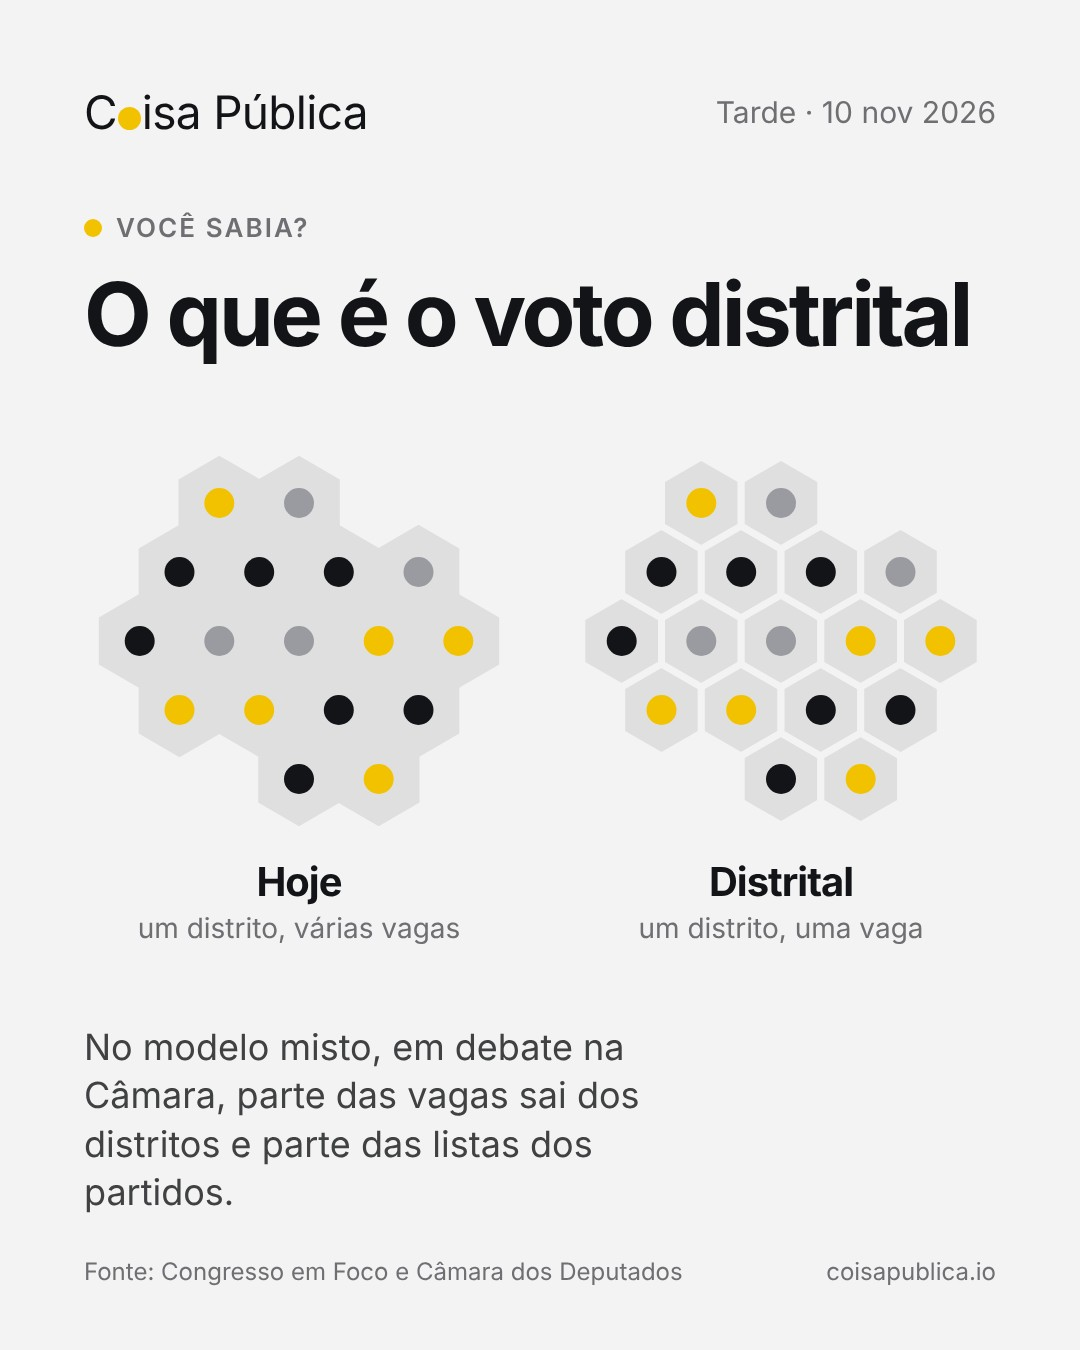
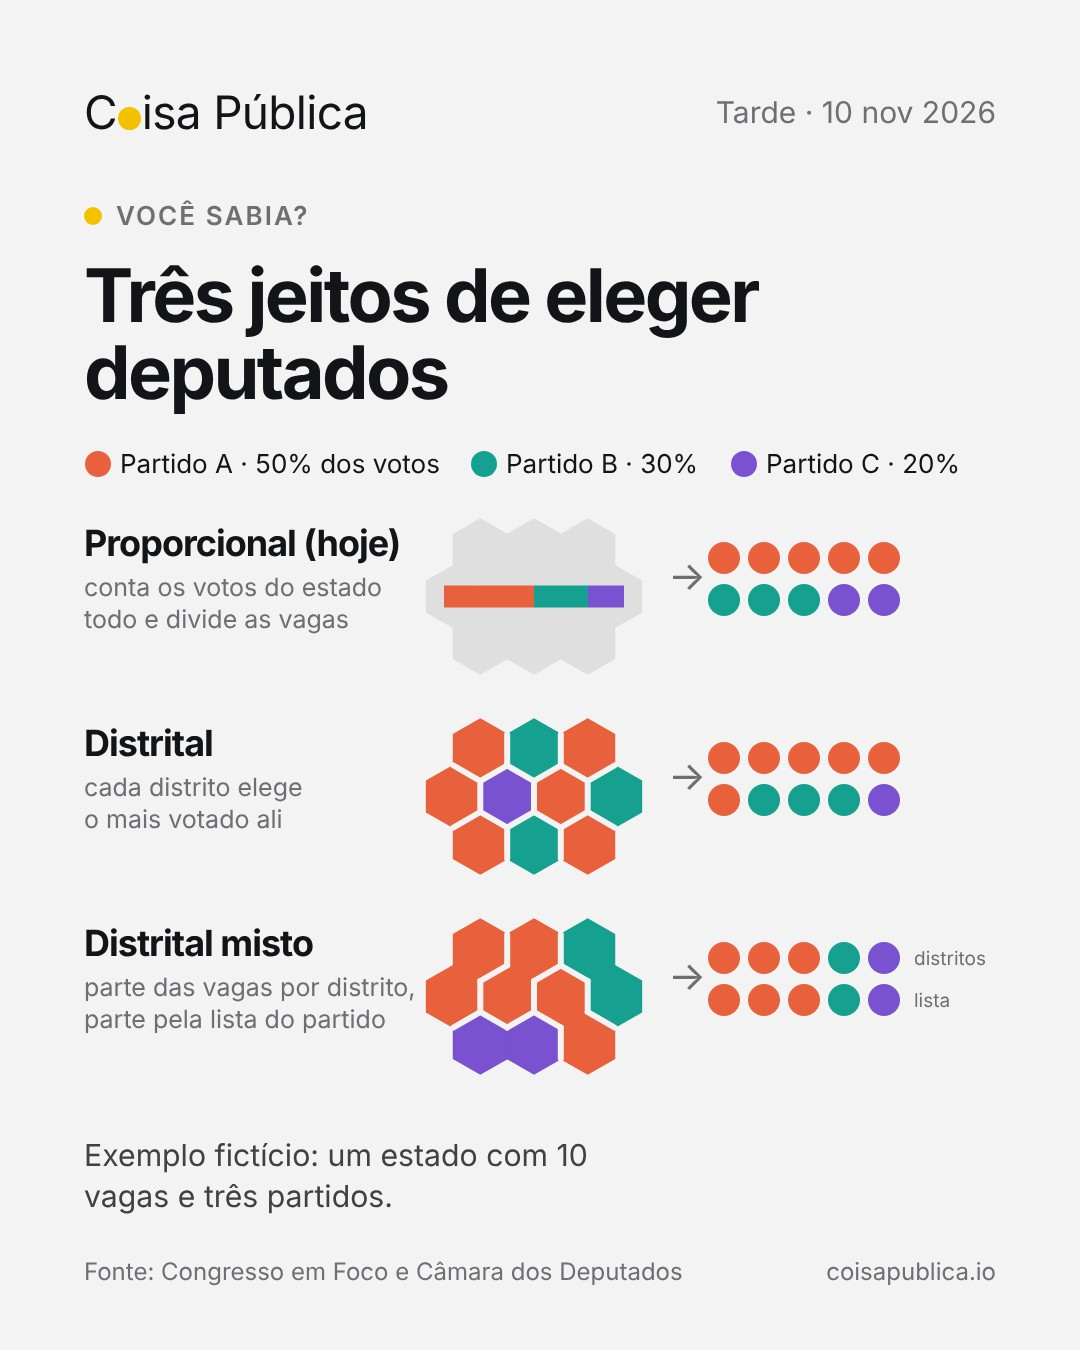
Post sobre voto distrital: ilustração dos três sistemas, mais colorida
Claude-Session: https://claude.ai/code/session_01LhzKyLQrhXGAurv8egTDtu

diff --git a/scripts/posts/render.js b/scripts/posts/render.js
@@ -81,6 +81,35 @@ function visual(V, poder){
     const lab = (x,[t,sub])=>`<text x="${x}" y="470" text-anchor="middle" font-size="40" font-weight="700" letter-spacing="-1" fill="var(--ink)">${esc(t)}</text><text x="${x}" y="512" text-anchor="middle" font-size="28" fill="var(--muted)">${esc(sub)}</text>`;
     return `<svg viewBox="0 0 912 530" width="912" style="max-width:100%;font-family:inherit">${map(215,false)}${map(697,true)}${lab(215,R[0])}${lab(697,R[1])}</svg>`;
   }
+  // sistemas: três linhas (proporcional, distrital, misto) com o mesmo estado fictício de 10 vagas e três partidos fictícios;
+  // em cada linha, o nome e a regra, o mapa (com os votos ou com os distritos pintados pelo vencedor) e as cadeiras que resultam
+  if (V.tipo === 'sistemas'){
+    const PC = ['#E8603C','#16A08F','#7A52D1'], s = 31, w = s*Math.sqrt(3), rh = s*1.5;
+    const pos = [[-1,0],[0,0],[1,0],[-1.5,1],[-.5,1],[.5,1],[1.5,1],[-1,2],[0,2],[1,2]];
+    const vtx = (x,y)=> [...Array(6)].map((_,i)=>{ const a = Math.PI/180*(60*i-30); return [+(x+s*Math.cos(a)).toFixed(1), +(y+s*Math.sin(a)).toFixed(1)]; });
+    // um mapa: cada célula pintada; fio claro só entre células de distritos diferentes
+    const map = (ox, oy, dist, fill)=>{
+      const C = pos.map(([a,b])=>({x:ox + a*w, y:oy + b*rh})), V6 = C.map(c=>vtx(c.x,c.y));
+      let out = C.map((c,i)=>`<polygon points="${V6[i].map(p=>p.join(',')).join(' ')}" fill="${fill(i)}" stroke="${fill(i)}" stroke-width="1.5"/>`).join('');
+      if (dist) for (let i=0;i<10;i++) for (let j=i+1;j<10;j++){ if (dist[i]===dist[j]) continue;
+        const sh = V6[i].filter(p=> V6[j].some(q=> Math.abs(p[0]-q[0])<1 && Math.abs(p[1]-q[1])<1));
+        if (sh.length===2) out += `<line x1="${sh[0][0]}" y1="${sh[0][1]}" x2="${sh[1][0]}" y2="${sh[1][1]}" stroke="#F3F3F3" stroke-width="6" stroke-linecap="round"/>`; }
+      return out;
+    };
+    const seats = (x, y, list, gap)=> list.map((p,i)=>`<circle cx="${x + (i%5)*40 + 0}" cy="${y + Math.floor(i/5)*42}" r="16" fill="${PC[p]}"/>`).join('');
+    const row = (y, t, sub, mapSvg, seatSvg)=> `<text x="0" y="${y+52}" font-size="36" font-weight="700" letter-spacing="-1" fill="var(--ink)">${esc(t)}</text>${sub.map((l,k)=>`<text x="0" y="${y+92+k*32}" font-size="25" fill="var(--muted)">${esc(l)}</text>`).join('')}${mapSvg}<text x="584" y="${y+86}" font-size="40" fill="var(--muted)">→</text>${seatSvg}`;
+    const legend = ['A · 50% dos votos','B · 30%','C · 20%'].map((t,i)=>`<circle cx="${[14,400,660][i]}" cy="22" r="13" fill="${PC[i]}"/><text x="${[36,422,682][i]}" y="31" font-size="26" fill="var(--ink)">Partido ${t}</text>`).join('');
+    // proporcional: o estado é um distrito só; a barra mostra os votos e as vagas seguem a proporção
+    const r1 = map(450, 108, null, ()=> 'var(--card2)') + `<rect x="${450-90}" y="${108+rh-11}" width="90" height="22" fill="${PC[0]}"/><rect x="450" y="${108+rh-11}" width="54" height="22" fill="${PC[1]}"/><rect x="504" y="${108+rh-11}" width="36" height="22" fill="${PC[2]}"/>`;
+    const win2 = [0,1,0,0,2,0,1,0,1,0];               // um vencedor por distrito: A 6, B 3, C 1
+    const dist3 = [0,1,2,0,1,3,2,4,4,3], win3 = [0,0,1,0,2]; // 5 distritos de duas células
+    const Y = [62, 262, 462];
+    return `<svg viewBox="0 0 912 662" width="912" style="max-width:100%;font-family:inherit">${legend}
+      ${row(Y[0], 'Proporcional (hoje)', ['conta os votos do estado','todo e divide as vagas'], r1, seats(640, Y[0]+54, [0,0,0,0,0,1,1,1,2,2]))}
+      ${row(Y[1], 'Distrital', ['cada distrito elege','o mais votado ali'], map(450, Y[1]+46, [0,1,2,3,4,5,6,7,8,9], i=>PC[win2[i]]), seats(640, Y[1]+54, [0,0,0,0,0,0,1,1,1,2]))}
+      ${row(Y[2], 'Distrital misto', ['parte das vagas por distrito,','parte pela lista do partido'], map(450, Y[2]+46, dist3, i=>PC[win3[dist3[i]]]), seats(640, Y[2]+54, [0,0,0,1,2,0,0,0,1,2]) + `<text x="830" y="${Y[2]+61}" font-size="19" fill="var(--muted)">distritos</text><text x="830" y="${Y[2]+103}" font-size="19" fill="var(--muted)">lista</text>`)}
+    </svg>`;
+  }
   if (V.tipo === 'plenario') return `<div>${hemi(V.casa, V.destaque || 0)}${V.numeros ? `<div class="nums">${V.numeros.map(x=>`<div><b>${esc(x.n)}</b><span>${esc(x.l)}</span></div>`).join('')}</div>` : ''}</div>`;
   if (V.tipo === 'data') return `<div class="dat">${(V.simbolo || poder) === 'jud' ? MESA : `<div class="circ">${GLY[V.simbolo || poder] || ''}</div>`}<div>${V.rotulo ? `<small>${esc(V.rotulo)}</small>` : ''}<b>${esc(V.valor)}</b>${V.sub ? `<small style="margin-top:8px">${esc(V.sub)}</small>` : ''}</div></div>`;
   return '';

diff --git a/posts/LEIA.md b/posts/LEIA.md
@@ -63,7 +63,7 @@ Horário de Brasília. A tarefa agendada roda todo dia às 6h37, 11h37 e 17h37 e
 
 - `imagem.poder`: `leg`, `jud` ou `exe` (cor da bolinha do logo). Em `tags`, `poder` pinta a etiqueta com a cor do poder e `cat` usa a cor do tipo (`mp`, `pec`, `plp`, `pl`, `pdl`, `acao`, `re`).
 - Um assunto só: `tags`, `texto` e, se houver, `placar` (`desenho`: `stf`, `camara`, `senado` ou sem desenho). Lista de assuntos: `itens` (até 3), cada um com `quando`, `dia`, `tags`, `titulo` e `texto` opcional; o `texto` de fora vira uma linha embaixo do título.
-- Post de um assunto só com `imagem.poder` sai no layout de assunto único: fundo #F3F3F3, o tema em texto pequeno com uma bolinha na cor do poder, sem caixa e sem etiquetas (elas ficam na legenda), e um desenho grande no meio: `visual` `{"tipo":"plenario","casa":"camara"|"senado","destaque":308,"numeros":[{"n":"308","l":"dos 513 deputados"}]}` (semicírculo com as cadeiras destacadas) ou `{"tipo":"percentual","valor":60,"rotulo":"três quintos","numeros":[...]}` (o semicírculo do plenário numa faixa única, preenchida até a porcentagem) ou `{"tipo":"data","rotulo":"Julgamento","valor":"4/11","sub":"quarta-feira, no plenário"}` (o símbolo do poder num círculo, ou a mesa do STF com as 11 cadeiras no Judiciário, e, à direita dele, o rótulo, a data ou o número grande e a linha de baixo; o grupo fica centralizado na largura); ou `{"tipo":"distrital"}` (o mesmo estado fictício duas vezes, em hexágonos com uma bolinha por vaga: à esquerda um território só, "Hoje"; à direita cortado em distritos, "Distrital"; `rotulos` muda os textos de baixo) ou `{"tipo":"degraus","pontos":[15,14.75,14.5],"valor":"14,5%","sub":"ao ano"}` (uma escada com o número publicado em cada degrau; a base não começa do zero); sem `visual`, entra o `placar`. Texto curto (uma ou duas frases); o resto vai na legenda. Posts com lista (`itens`), como a ordem do dia e os resumos, seguem com a caixa cinza. Para usar o layout antigo, com caixa, num post de um assunto só: `"fundo":"claro"`.
+- Post de um assunto só com `imagem.poder` sai no layout de assunto único: fundo #F3F3F3, o tema em texto pequeno com uma bolinha na cor do poder, sem caixa e sem etiquetas (elas ficam na legenda), e um desenho grande no meio: `visual` `{"tipo":"plenario","casa":"camara"|"senado","destaque":308,"numeros":[{"n":"308","l":"dos 513 deputados"}]}` (semicírculo com as cadeiras destacadas) ou `{"tipo":"percentual","valor":60,"rotulo":"três quintos","numeros":[...]}` (o semicírculo do plenário numa faixa única, preenchida até a porcentagem) ou `{"tipo":"data","rotulo":"Julgamento","valor":"4/11","sub":"quarta-feira, no plenário"}` (o símbolo do poder num círculo, ou a mesa do STF com as 11 cadeiras no Judiciário, e, à direita dele, o rótulo, a data ou o número grande e a linha de baixo; o grupo fica centralizado na largura); ou `{"tipo":"distrital"}` (o mesmo estado fictício duas vezes, em hexágonos com uma bolinha por vaga: à esquerda um território só, "Hoje"; à direita cortado em distritos, "Distrital"; `rotulos` muda os textos de baixo) ou `{"tipo":"sistemas"}` (três linhas, proporcional, distrital e distrital misto, com um estado fictício de 10 vagas e três partidos fictícios em laranja, verde-água e roxo: o mapa, uma seta e as cadeiras que resultam; sempre dizer na imagem que é exemplo fictício) ou `{"tipo":"degraus","pontos":[15,14.75,14.5],"valor":"14,5%","sub":"ao ano"}` (uma escada com o número publicado em cada degrau; a base não começa do zero); sem `visual`, entra o `placar`. Texto curto (uma ou duas frases); o resto vai na legenda. Posts com lista (`itens`), como a ordem do dia e os resumos, seguem com a caixa cinza. Para usar o layout antigo, com caixa, num post de um assunto só: `"fundo":"claro"`.
 - **Pergunta em destaque** (bom para "Em tramitação"): `"pergunta":"Os municípios podem criar as próprias loterias?"` e `"rodape":{"rotulo":"O STF decide em","valor":"4 de novembro"}`. A pergunta vira o título grande, o `titulo` vai para a linha do tema, e embaixo, depois de um fio, entram o símbolo do poder (a mesa do STF no Judiciário) e a data.
 - Títulos curtos (até ~40 caracteres). Se `render.js` avisar que não coube, encurtar.
 - Exemplos completos em `posts/exemplos/`.
